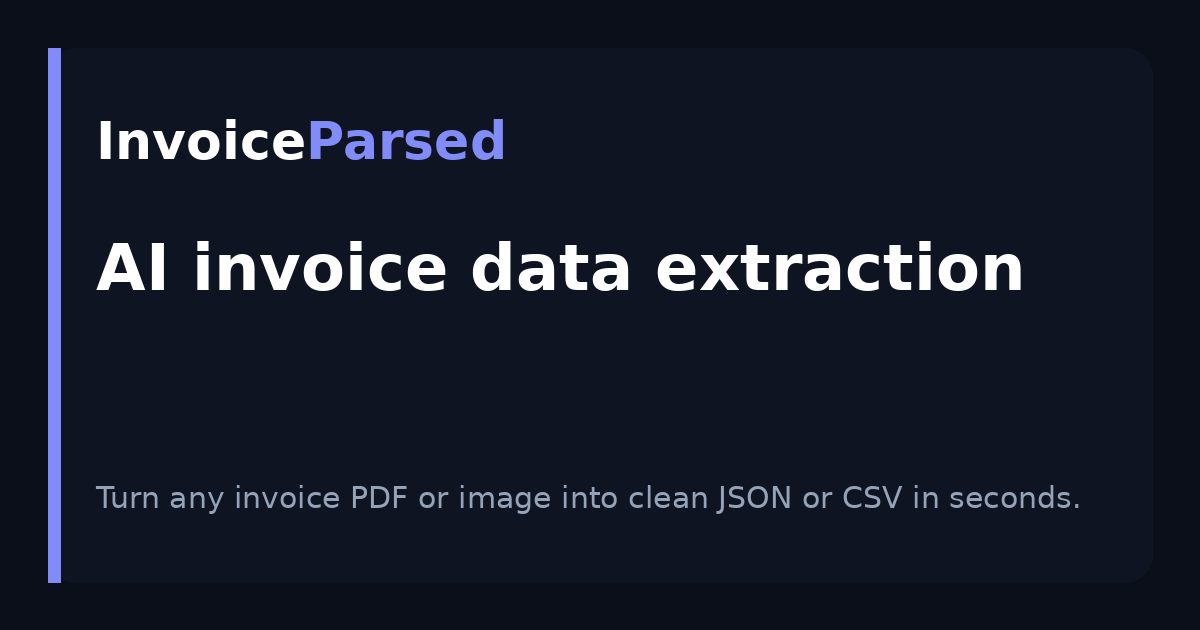
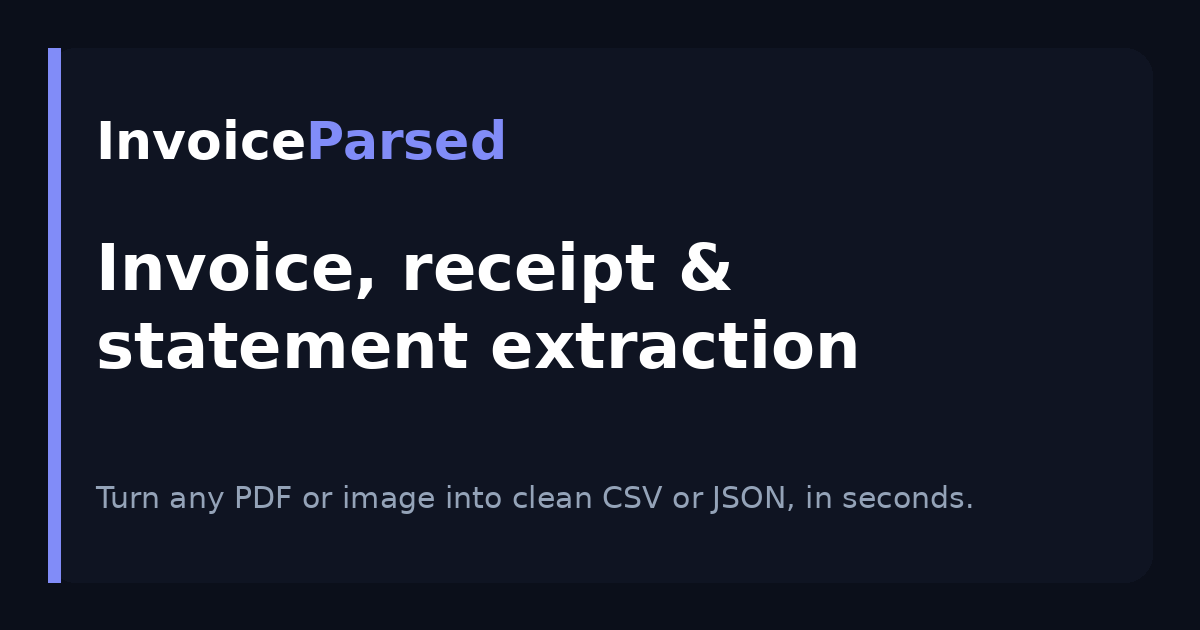
Regenerate OG share image to cover invoices, receipts & statements

Changed region(s): [[0.0617, 0.3619, 0.8633, 0.4825], [0.0617, 0.5127, 0.74, 0.6032], [0.185, 0.754, 0.8942, 0.8143]]

diff --git a/backend/scripts/gen_og_images.py b/backend/scripts/gen_og_images.py
@@ -101,8 +101,8 @@ if __name__ == "__main__":
     pub = FRONTEND_PUBLIC
     og_image(
         os.path.join(pub, "og", "invoiceparsed-og.png"),
-        "AI invoice data extraction",
-        "Turn any invoice PDF or image into clean JSON or CSV in seconds.",
+        "Invoice, receipt & statement extraction",
+        "Turn any PDF or image into clean CSV or JSON, in seconds.",
     )
     og_image(
         os.path.join(pub, "og", "blog", "extract-invoice-pdf.png"),
